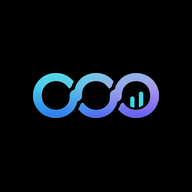
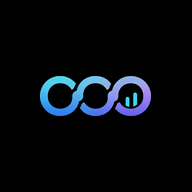
feat(android): проект TWA ru.moooza.app (Bubblewrap) и иконки под маску
- android/: twa-manifest.json (старт /?app=android, ярлыки, push, запасной
  WebView, без «Настроек сайта»), build.sh, README; проект Gradle генерируется
- новый ключ подписи (вне репозитория) — отпечаток в assetlinks.json
- maskable/monochrome: символ 58% — с запасом во всех формах маски лаунчера

Changed region(s): [[0.1562, 0.375, 0.8438, 0.625]]

diff --git a/android/README.md b/android/README.md
@@ -1,0 +1,35 @@
+# Android-приложение Moooza
+
+TWA (Trusted Web Activity), пакет **`ru.moooza.app`**. Приложение открывает https://moooza.ru в движке Chrome на весь экран, без адресной строки. Поэтому всё, что выкатывается на сайт, сразу появляется и в приложении. Пересобирать APK нужно только при смене иконки, названия, цветов, ярлыков или стартового адреса, а также для новой версии в RuStore.
+
+Распространение: RuStore и APK на сайте (`https://moooza.ru/moooza.apk`). Ссылка на APK видна только в браузерах Android и включается в админке: «Ссылка на Android-приложение (APK)», флаг `androidApkEnabled`.
+
+## Что в репозитории
+
+- `twa-manifest.json`: вся конфигурация приложения. Проект Gradle генерируется из него и в git не хранится.
+- `build.sh`: сборка и подпись, результат кладётся в `client/public/moooza.apk`.
+- Веб-часть:
+  - `client/public/.well-known/assetlinks.json`: связь домена с приложением. Без неё появляется адресная строка.
+  - `client/public/app-icons/`: иконки (maskable, monochrome, ярлыки).
+  - `client/src/lib/androidApp.ts`: определяет запуск из приложения (`/?app=android`); гость тогда сразу попадает в Поток.
+
+## Ключ подписи — хранить как зеницу ока
+
+- Файл: `~/.moooza-android/moooza-release.jks`, alias `moooza`. Пароль лежит рядом, в `keystore-passwords.txt`.
+- **Сделайте резервную копию** ключа и пароля, например в менеджере паролей. Без этого ключа выпустить обновление приложения невозможно: ни в RuStore, ни для тех, кто поставил APK с сайта. Придётся публиковать новое приложение с другим пакетом.
+- SHA-256 отпечаток ключа прописан в `assetlinks.json`. Если ключ сменится, отпечаток нужно обновить.
+
+## Сборка
+
+Нужны Node, JDK 17 и Android SDK. Пути к ним Bubblewrap берёт из `~/.bubblewrap/config.json` (`jdkPath`, `androidSdkPath`).
+
+Bubblewrap 1.25 ожидает две вещи. Первая — build-tools **36.1.0**; ставятся так: `android sdk install build-tools/36.1.0`, бинарник лежит в `Sdk/cmdline-tools/latest/bin/android.exe`. Вторая — SDK в своём формате, с папкой `bin/` в корне. Поэтому `androidSdkPath` указывает не на SDK Android Studio, а на обёртку `~/.bubblewrap/android_sdk`: в ней пустая `bin/` и junction-ссылки `build-tools`, `platforms`, `platform-tools`, `licenses`, `cmdline-tools` на `%LOCALAPPDATA%\Android\Sdk`.
+
+```sh
+export BUBBLEWRAP_KEYSTORE_PASSWORD='<storepass из keystore-passwords.txt>'
+sh android/build.sh
+```
+
+После сборки выкатите web, чтобы новый `moooza.apk` попал на сайт. Файл `app-release-signed.apk` в этой папке загружается в RuStore.
+
+**Новая версия:** перед сборкой увеличьте `appVersionCode` на 1 и обновите `appVersionName` в `twa-manifest.json`. RuStore не примет сборку с прежним `versionCode`.
